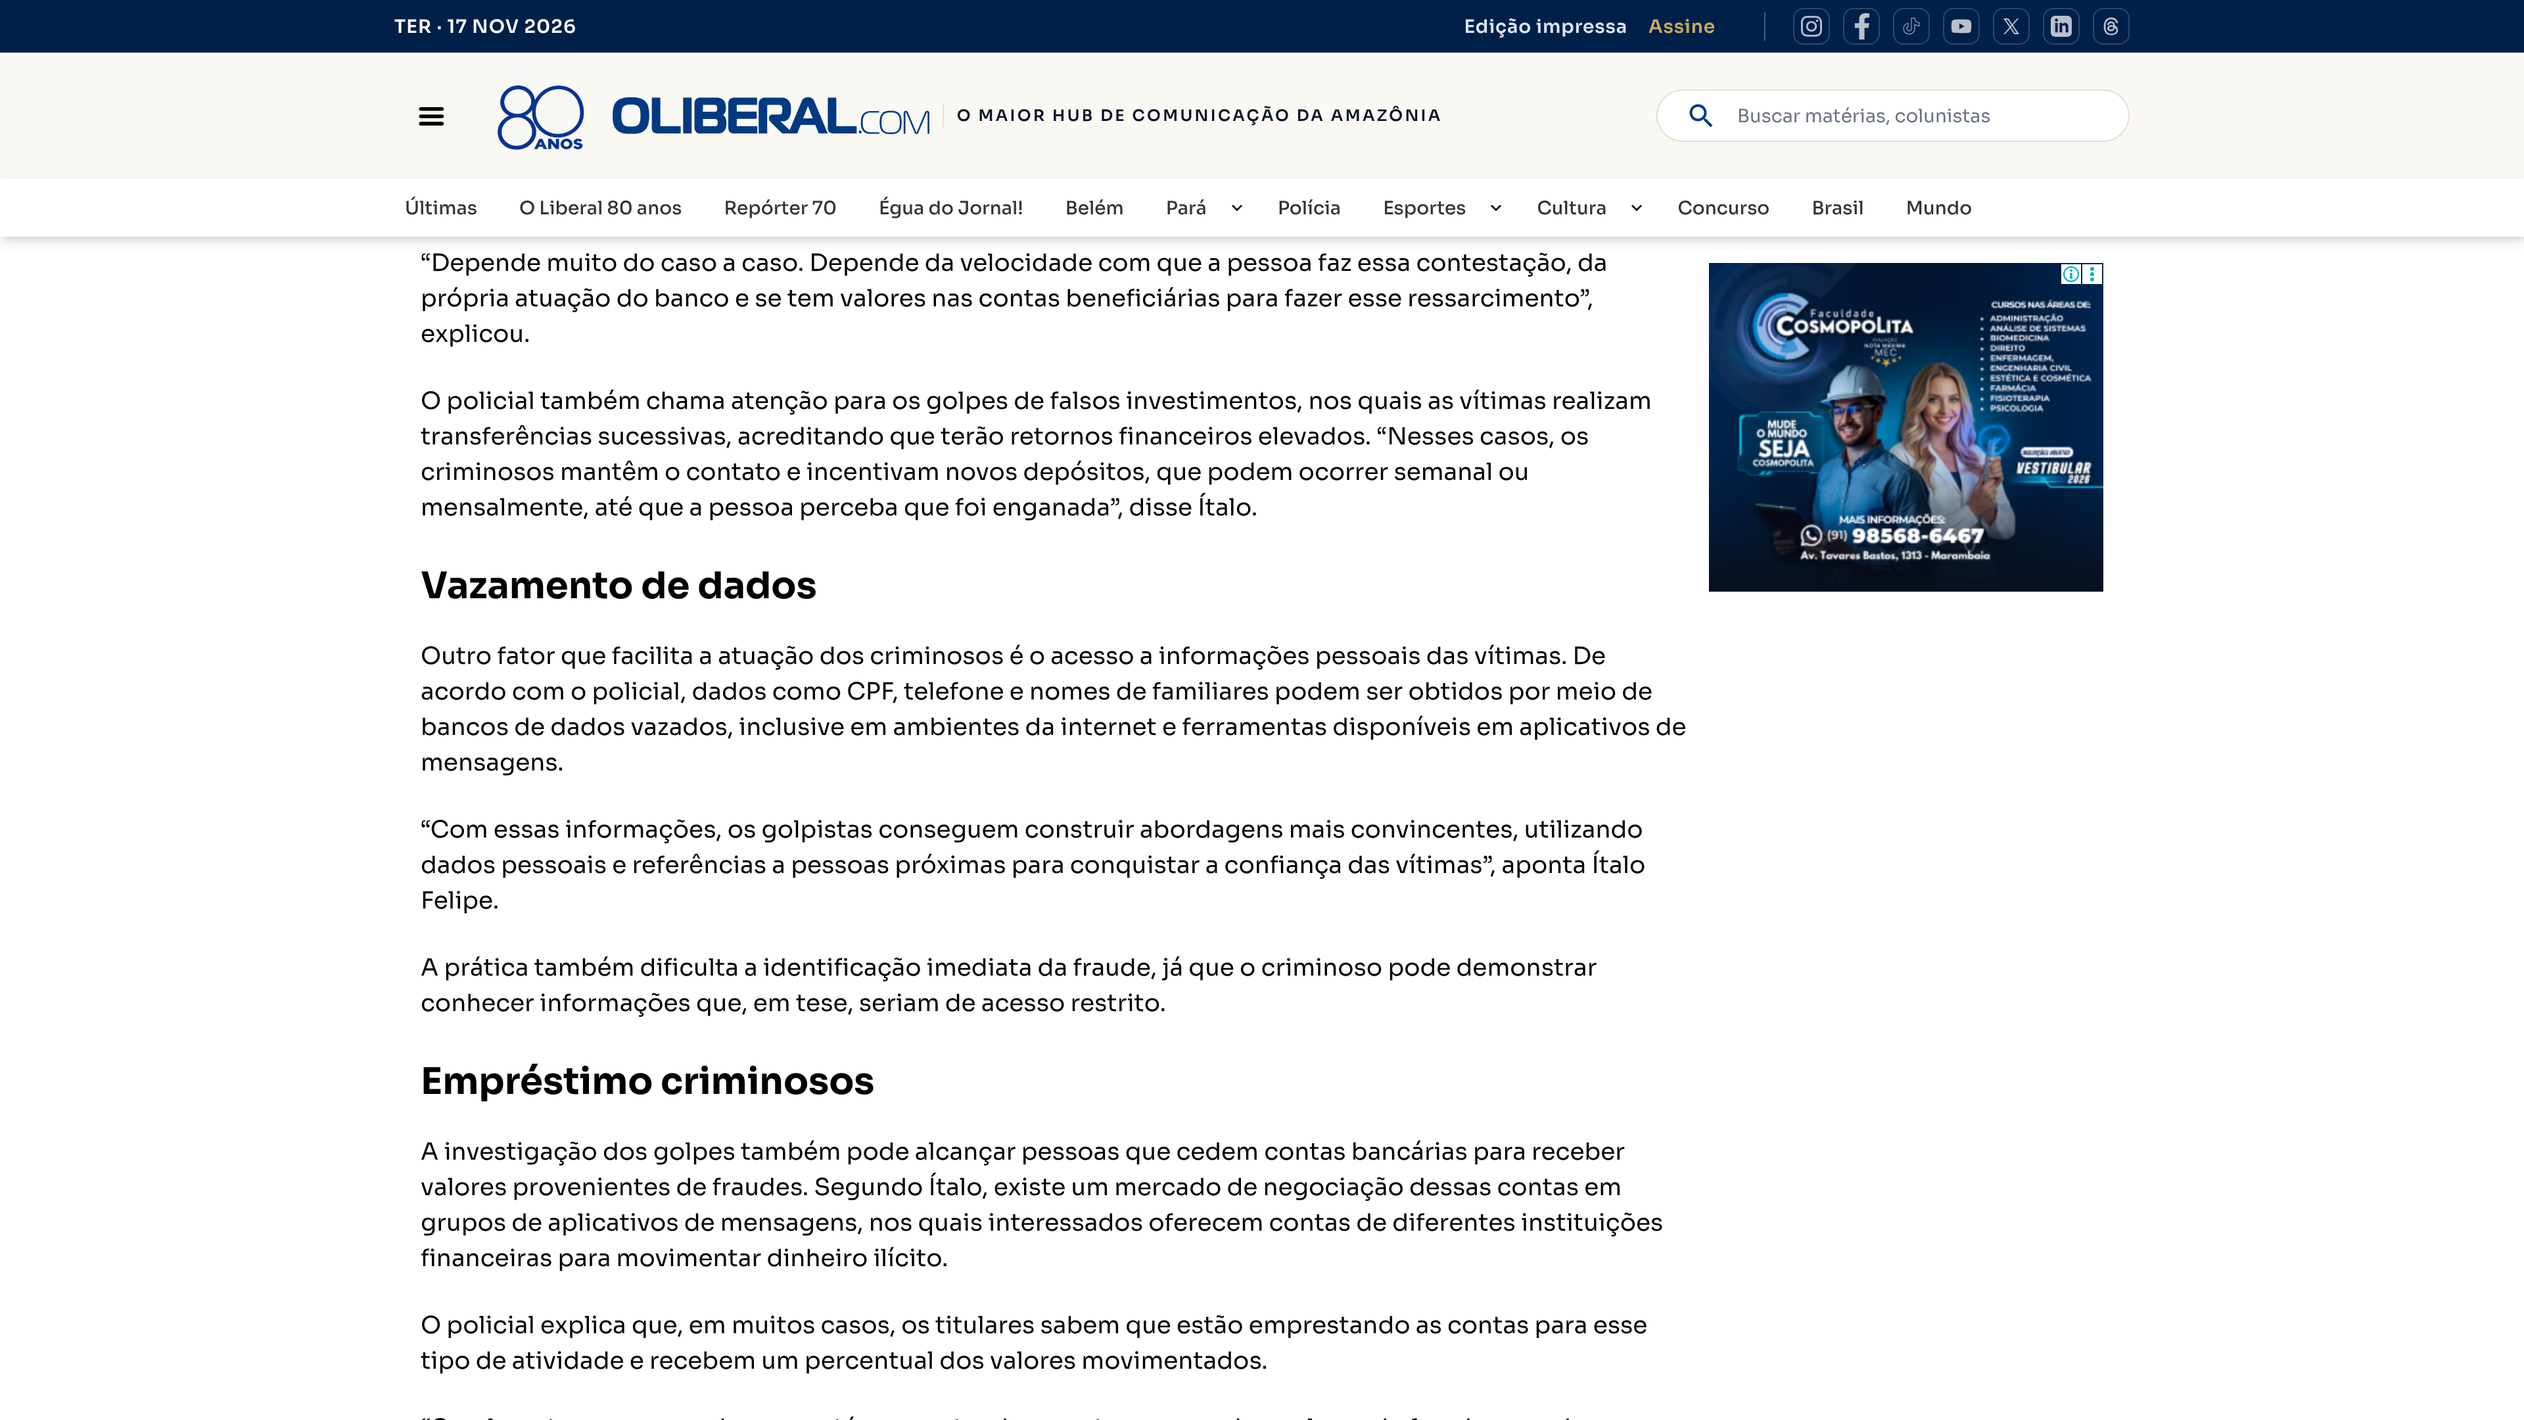
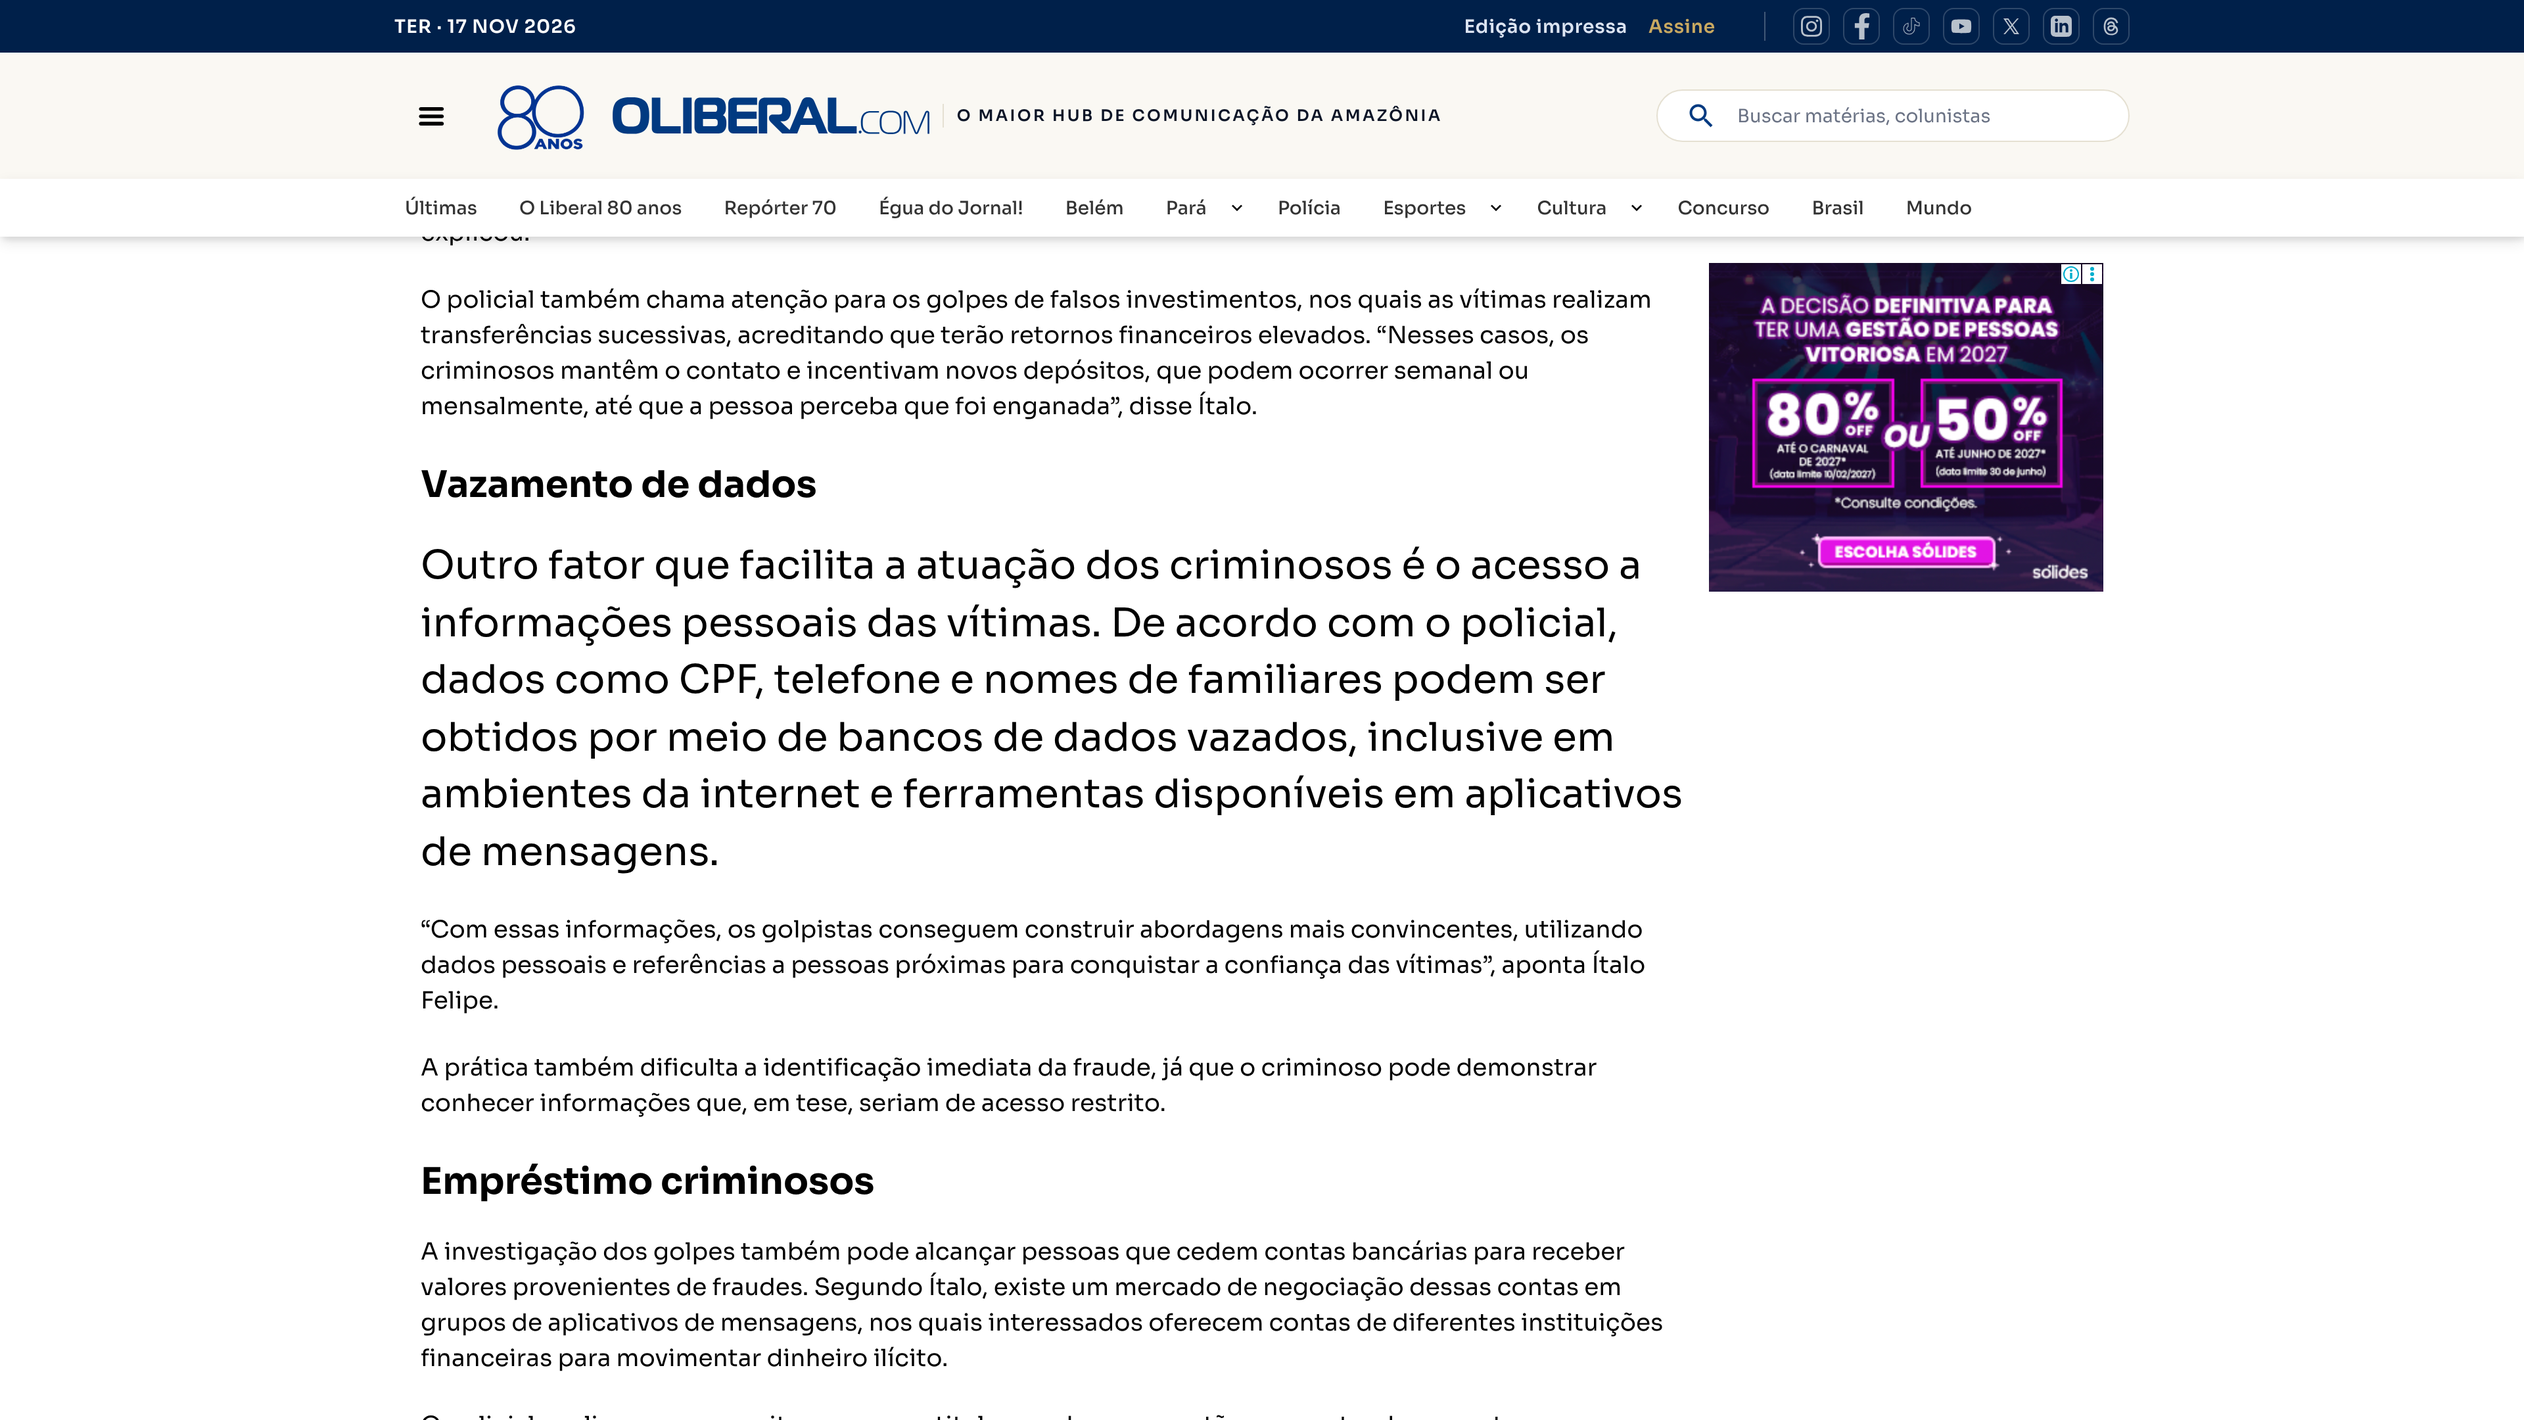
Edição: prints só com o parágrafo em fundo claro, vídeos sem esticar, fala nunca cortada no fim do bloco, respiro mais curto
Claude-Session: https://claude.ai/code/session_01CBwL49ZHpr8YNmaRJdrnGA

Changed region(s): [[0.1562, 0.1551, 0.8438, 0.7134], [0.1562, 0.7444, 0.6562, 0.9616]]

diff --git a/ferramentas/print_grifo.js b/ferramentas/print_grifo.js
@@ -18,6 +18,21 @@ const [,, lista, out] = process.argv;
       for (const t of ['Aceitar cookies','Aceitar todos','Aceitar','Concordo','Prosseguir','Entendi']) {
         const bt = p.getByRole('button', { name: t }); if (await bt.count()) { await bt.first().click({timeout:2000}).catch(()=>{}); break; } }
       await p.waitForTimeout(800);
+      // aumenta a letra do parágrafo da frase (só para o print ficar legível em vídeo)
+      await p.evaluate((frase) => {
+        const re = new RegExp(frase.replace(/[.*+?^${}()|[\]\\]/g, '\\$&').replace(/ /g, '\\s+'));
+        const w = document.createTreeWalker(document.body, NodeFilter.SHOW_TEXT); let n;
+        while ((n = w.nextNode())) {
+          if (re.test(n.textContent) && n.parentElement && n.parentElement.offsetParent !== null) {
+            const el = n.parentElement.closest('p,h1,h2,h3,li,blockquote,figcaption') || n.parentElement;
+            const fs = parseFloat(getComputedStyle(el).fontSize);
+            if (fs < 30) { el.style.fontSize = '30px'; el.style.lineHeight = '1.45'; }
+            el.style.maxWidth = '1050px';
+            return;
+          }
+        }
+      }, frase);
+      await p.waitForTimeout(500);
       const rects = await p.evaluate((frase) => {
         const norm = s => s.replace(/\s+/g,' ');
         const w = document.createTreeWalker(document.body, NodeFilter.SHOW_TEXT);
@@ -63,8 +78,20 @@ const [,, lista, out] = process.argv;
           }
         }
         return null; }, frase);
+      // caixa do parágrafo (ou título) onde está a frase: o print novo mostra só esse bloco
+      const bloco = await p.evaluate((frase) => {
+        const re = new RegExp(frase.replace(/[.*+?^${}()|[\]\\]/g, '\\$&').replace(/ /g, '\\s+'));
+        const w = document.createTreeWalker(document.body, NodeFilter.SHOW_TEXT); let n;
+        while ((n = w.nextNode())) {
+          if (re.test(n.textContent) && n.parentElement && n.parentElement.offsetParent !== null) {
+            const el = n.parentElement.closest('p,h1,h2,h3,li,blockquote,figcaption') || n.parentElement;
+            const r = el.getBoundingClientRect(); return [r.left, r.top, r.width, r.height];
+          }
+        }
+        return null; }, frase);
       await p.screenshot({ path: `${out}/${id}.png` });
-      res[id] = { url, frase, rects: (rects2 || []).map(r => r.map(v => Math.round(v * 2))) };
+      res[id] = { url, frase, rects: (rects2 || []).map(r => r.map(v => Math.round(v * 2))),
+                  bloco: bloco ? bloco.map(v => Math.round(v * 2)) : null };
       // frases extras na MESMA imagem (print contínuo com vários grifos): id_2, id_3...
       for (let k = 1; k < lista_f.length; k++) {
         const rx = await p.evaluate((fr) => {

diff --git a/ferramentas/render_storyboard.py b/ferramentas/render_storyboard.py
@@ -554,6 +554,70 @@ def print_mensagem(png, grupos, k, fonte_nome, recorte=None):
     return fundo
 
 
+_FUNDO_CLARO = None
+
+
+def fundo_claro():
+    """Fundo neutro claro (papel), para os prints de notícia no estilo novo do dono."""
+    global _FUNDO_CLARO
+    if _FUNDO_CLARO is None:
+        import random
+        img = Image.new("RGB", (W, H), (236, 234, 229))
+        d = ImageDraw.Draw(img)
+        rnd = random.Random(7)
+        for _ in range(26000):
+            x, y = rnd.randrange(W), rnd.randrange(H)
+            v = rnd.randrange(222, 246)
+            d.point((x, y), fill=(v, v - 2, v - 6))
+        _FUNDO_CLARO = img.filter(ImageFilter.GaussianBlur(0.6))
+    return _FUNDO_CLARO.copy()
+
+
+def print_paragrafo(png, grupos, k, fonte_nome, bloco):
+    """Print novo: só o parágrafo da frase grifada + o nome da fonte, num cartão branco sobre fundo claro."""
+    if png not in _PRINT_CACHE:
+        _PRINT_CACHE[png] = Image.open(png).convert("RGB")
+    pag = _PRINT_CACHE[png]
+    bx, by, bw, bh = bloco
+    pad = 10
+    x0, y0 = max(0, bx - pad), max(0, by - pad)
+    x1, y1 = min(pag.width, bx + bw + pad), min(pag.height, by + bh + pad)
+    rec = pag.crop((x0, y0, x1, y1)).convert("RGBA")
+    # moldura branca limpa em volta do parágrafo (nada de pedaço de outra linha)
+    marg = 56
+    cartao_b = Image.new("RGBA", (rec.width + 2 * marg, rec.height + 2 * marg), (255, 255, 255, 255))
+    cartao_b.paste(rec, (marg, marg)); rec = cartao_b; x0 -= marg; y0 -= marg
+    gr = Image.new("RGBA", rec.size, (0, 0, 0, 0)); dg = ImageDraw.Draw(gr)
+    for rects, t0 in grupos:
+        prog = min(1.0, max(0.0, (k - t0 - 0.03) / 0.25))
+        total = sum(r[2] for r in rects) or 1
+        andar = total * prog
+        for (x, y, rw, rh) in rects:
+            if andar <= 0:
+                break
+            ww = min(rw, andar)
+            dg.rectangle([x - x0 - 6, y - y0 + rh * 0.08, x - x0 + ww + 6, y - y0 + rh * 0.96], fill=(255, 212, 0, 140))
+            andar -= rw
+    rec = Image.alpha_composite(rec, gr).convert("RGB")
+    fundo = fundo_claro()
+    esc = min(1560 / rec.width, 620 / rec.height, 1.6) * (1.0 + 0.035 * k)
+    nw, nh = int(rec.width * esc), int(rec.height * esc)
+    rec = rec.resize((nw, nh), Image.LANCZOS)
+    px, py = (W - nw) // 2, (H - nh) // 2 + 60
+    sombra = Image.new("RGBA", (nw + 120, nh + 120), (0, 0, 0, 0))
+    ImageDraw.Draw(sombra).rectangle([60, 70, nw + 60, nh + 70], fill=(0, 0, 0, 70))
+    sombra = sombra.filter(ImageFilter.GaussianBlur(26))
+    fundo.paste(sombra, (px - 60, py - 60), sombra)
+    fundo.paste(rec, (px, py))
+    d = ImageDraw.Draw(fundo)
+    if fonte_nome:
+        ff = fonte(FONTE_BLACK, 54)
+        tw = d.textlength(fonte_nome, font=ff)
+        d.text(((W - tw) / 2, py - 120), fonte_nome, font=ff, fill=(20, 22, 26))
+        d.rectangle([(W - 140) / 2, py - 44, (W + 140) / 2, py - 36], fill=AMARELO)
+    return fundo
+
+
 def foto_em_cartao(img, k):
     """Foto dentro de um cartão no centro, sobre a própria foto desfocada."""
     fundo = Image.blend(Image.new("RGB", (W, H), (0, 0, 0)), img.resize((W, H)).filter(ImageFilter.GaussianBlur(22)), 0.35)
@@ -653,8 +717,22 @@ def registrar_uso(cfg, vistos):
 
 def quadros_de_video(clipe, entrada, dur):
     """Extrai os quadros do trecho do clipe (1920x1080, 30 fps) como imagens PIL."""
+    wh = subprocess.run(["ffprobe", "-v", "error", "-select_streams", "v:0", "-show_entries", "stream=width,height",
+                         "-of", "csv=p=0", clipe], capture_output=True, text=True).stdout.strip().split(",")
+    try:
+        prop = int(wh[0]) / int(wh[1])
+    except Exception:
+        prop = 16 / 9
+    if prop < 1.2:
+        # vídeo vertical/quadrado: inteiro no centro, com a própria imagem desfocada preenchendo as laterais
+        filtro = (f"fps={FPS},split[a][b];[a]scale=2112:1188:force_original_aspect_ratio=increase,crop=2112:1188,"
+                  f"boxblur=40:2,eq=brightness=-0.12[fundo];[b]scale=-2:1188:flags=lanczos[frente];"
+                  f"[fundo][frente]overlay=(W-w)/2:0")
+    else:
+        # nunca esticar: amplia até cobrir a tela e corta as sobras
+        filtro = f"fps={FPS},scale=2112:1188:force_original_aspect_ratio=increase:flags=lanczos,crop=2112:1188"
     cmd = ["ffmpeg", "-loglevel", "error", "-ss", f"{entrada:.2f}", "-t", f"{dur + 0.2:.2f}", "-i", clipe,
-           "-vf", f"fps={FPS},scale=2112:1188:flags=lanczos", "-f", "rawvideo", "-pix_fmt", "rgb24", "-"]
+           "-filter_complex" if prop < 1.2 else "-vf", filtro, "-f", "rawvideo", "-pix_fmt", "rgb24", "-"]
     raw = subprocess.run(cmd, capture_output=True).stdout
     tam = 2112 * 1188 * 3
     return [Image.frombytes("RGB", (2112, 1188), raw[i:i + tam]) for i in range(0, len(raw) - tam + 1, tam)]
@@ -734,7 +812,11 @@ def renderizar(cfg):
                 rec_man = (grifos.get(p["_partes"][0][0]) or {}).get("recorte")
                 mf = re.search(r"credito=\s*Fonte:\s*([^;(]+)", p.get("etiq", ""))
                 nome_fonte = mf.group(1).strip().upper() if mf else FONTES_PRINT.get(p["_fonte"], "")
-                f = print_mensagem(png, grupos, k, nome_fonte, rec_man)
+                bloco_par = (grifos.get(p["_partes"][0][0]) or {}).get("bloco")
+                if bloco_par:
+                    f = print_paragrafo(png, grupos, k, nome_fonte, bloco_par)
+                else:
+                    f = print_mensagem(png, grupos, k, nome_fonte, rec_man)
             elif tipo == "print":
                 chave = mapa_print.get(f"{p['n']}", p["asset"])
                 g = grifos.get(chave) or grifos.get(p["asset"])

diff --git a/ferramentas/montagem.py b/ferramentas/montagem.py
@@ -17,9 +17,10 @@ sys.path.insert(0, os.path.dirname(os.path.abspath(__file__)))
 from PIL import Image
 from render_storyboard import vinheta, W, H, FPS  # mesmo visual da vinheta da intro
 
-DUR_RESPIRO = 3.0   # tela escura com o cartão (2 a 4 s pelo manual)
+DUR_RESPIRO = 2.6   # tela escura com o cartão (o dono pediu respiro mais curto)
 FADE_OUT = 0.8      # imagem escurece no fim do bloco
 FADE_IN = 0.6       # imagem clareia junto com a primeira frase do bloco seguinte
+FOLGA_FALA = 0.3    # depois da última palavra, espera antes de escurecer (não cortar a frase)
 
 
 def sh(cmd):
@@ -56,15 +57,24 @@ def cartao(texto, dur, saida, cfg, ini_musica, vol_musica):
     os.remove(tmp_v)
 
 
-def parte(arq, saida, corte_fim=None, fade_in=True, fade_out=True, dur_fade_in=None):
+def parte(arq, saida, corte_fim=None, fade_in=True, fade_out=True, dur_fade_in=None, fim_fala=None):
     d = corte_fim or duracao(arq)
     FADE_IN_ = dur_fade_in or FADE_IN
     vf, af = [], []
+    inicio_fade = d - FADE_OUT
+    if fim_fala is not None:
+        # o fade só começa depois que a última palavra termina; se não houver espaço, segura o último quadro
+        inicio_fade = fim_fala + FOLGA_FALA
+        total = inicio_fade + FADE_OUT
+        if total > d:
+            vf.append(f"tpad=stop_mode=clone:stop_duration={total - d + 0.05:.3f}")
+            af.append(f"apad=pad_dur={total - d + 0.05:.3f}")
+        d = total
     if fade_in:
-        vf.append(f"fade=t=in:d={FADE_IN_}"); af.append("afade=t=in:d=0.25")
+        vf.append(f"fade=t=in:d={FADE_IN_}"); af.append("afade=t=in:d=0.05")
     if fade_out:
-        vf.append(f"fade=t=out:st={d - FADE_OUT}:d={FADE_OUT}"); af.append(f"afade=t=out:st={d - FADE_OUT}:d={FADE_OUT}")
-    cmd = ["ffmpeg", "-v", "error", "-y", "-i", arq, "-t", str(d)]
+        vf.append(f"fade=t=out:st={inicio_fade:.3f}:d={FADE_OUT}"); af.append(f"afade=t=out:st={inicio_fade:.3f}:d={FADE_OUT}")
+    cmd = ["ffmpeg", "-v", "error", "-y", "-i", arq, "-t", f"{d:.3f}"]
     if vf:
         cmd += ["-vf", ",".join(vf)]
     cmd += ["-af", ",".join(af + ["aformat=sample_rates=48000:channel_layouts=stereo"]),
@@ -90,7 +100,8 @@ def montar(cfg):
         s = os.path.join(tmp, f"parte_{i:02d}.mp4")
         print("parte:", os.path.basename(pt["arquivo"]), flush=True)
         ultimo = i == len(cfg["partes"]) - 1
-        parte(pt["arquivo"], s, pt.get("corte_fim"), fade_in=i > 0, fade_out=True, dur_fade_in=pt.get("fade_in"))
+        parte(pt["arquivo"], s, pt.get("corte_fim"), fade_in=i > 0, fade_out=True, dur_fade_in=pt.get("fade_in"),
+              fim_fala=pt.get("fim_fala"))
         pecas.append(s)
         if ultimo and cfg.get("cartao_final"):
             c = os.path.join(tmp, "cartao_final.mp4")

diff --git a/canal/ESTILO-EDICAO.md b/canal/ESTILO-EDICAO.md
@@ -239,3 +239,9 @@ Pela contagem dos quadros, mais ou menos:
 - [ ] A música é contínua, a voz está clara e o volume final fica entre -14 e -16 LUFS.
 - [ ] Toda fonte citada aparece na tela (cartão de notícia ou de reportagem).
 - [ ] Nenhum dado pessoal real aparece na tela.
+
+### 3.14 Ajustes do dono (18/11, piloto do Laudo 002)
+- **Respiro mais curto.** Depois que o texto do cartão termina de ser digitado, a imagem volta logo: cartão de 2,6 s; no fim da intro, vinheta de 2,6 s + 1,2 s de tela preta só com música; fade-in de 1 s.
+- **Nunca cortar a última frase do bloco.** O escurecimento (fade-out) só começa 0,3 s depois da última palavra do bloco. Se a fala vai até o fim do trecho, o último quadro fica parado um pouco mais. A montagem usa o "fim_fala" de cada parte, tirado dos tempos da narração.
+- **Nunca esticar imagem.** Vídeo com proporção diferente de 16:9 é ampliado e cortado, nunca esticado. Vídeo vertical ou quadrado aparece inteiro no centro, com a própria imagem desfocada nas laterais. Prefira vídeos horizontais.
+- **Print de notícia, estilo novo.** Só o parágrafo (ou o título) onde está a frase grifada, num cartão branco com sombra leve, sobre fundo claro e neutro (papel), com o nome da fonte grande e escuro em cima e o traço amarelo. Nada do resto da página. A letra do parágrafo é aumentada na captura para ficar legível. O grifo amarelo avança com a voz.
